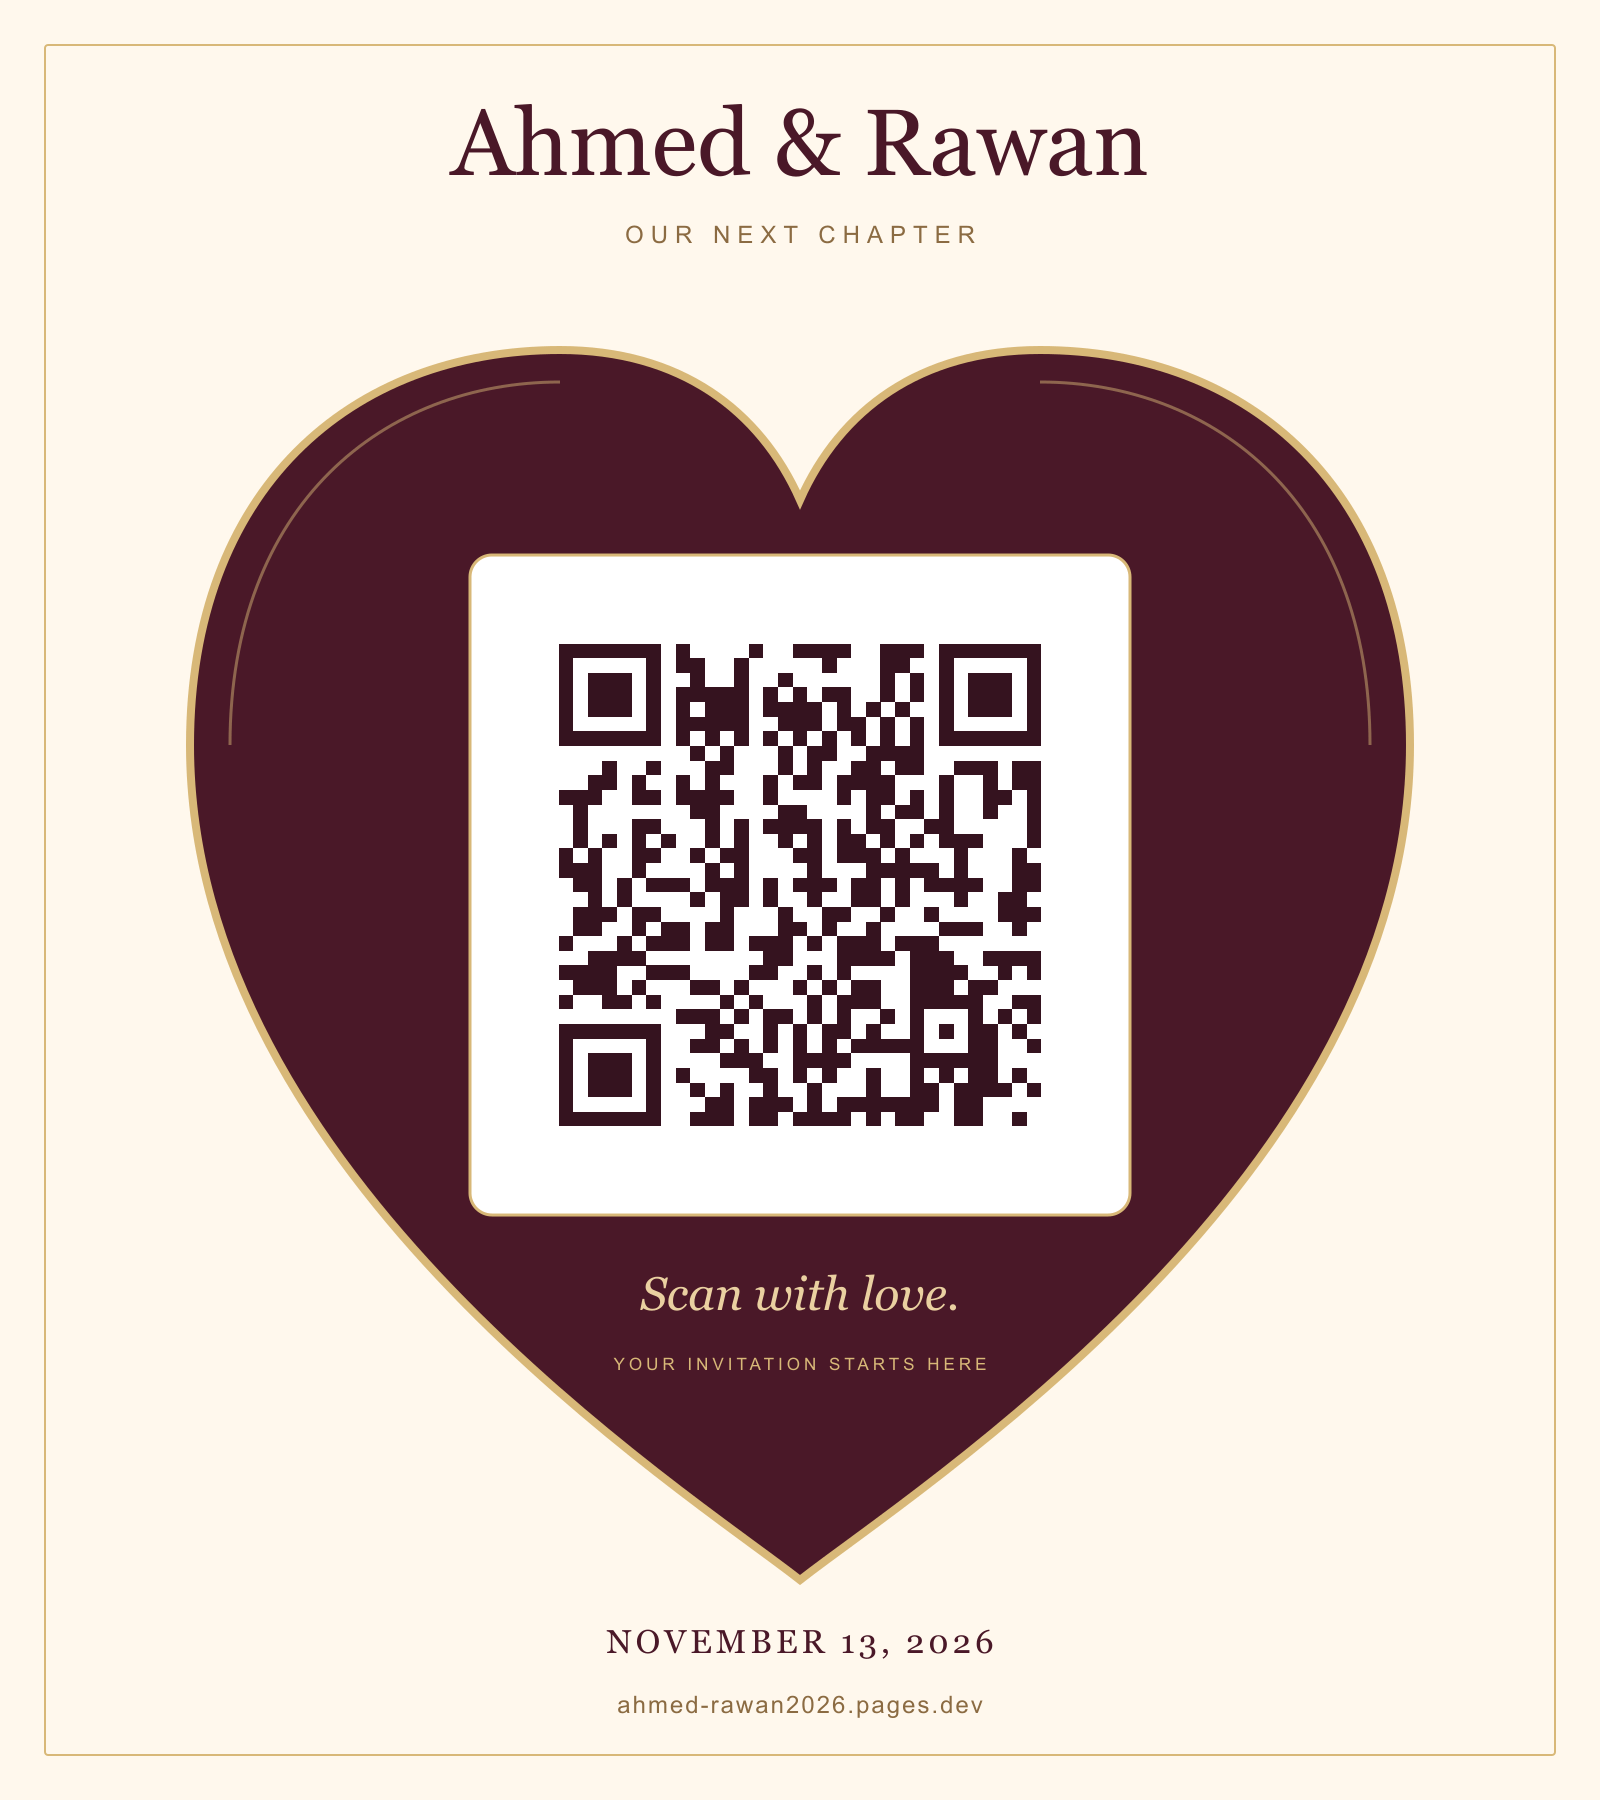
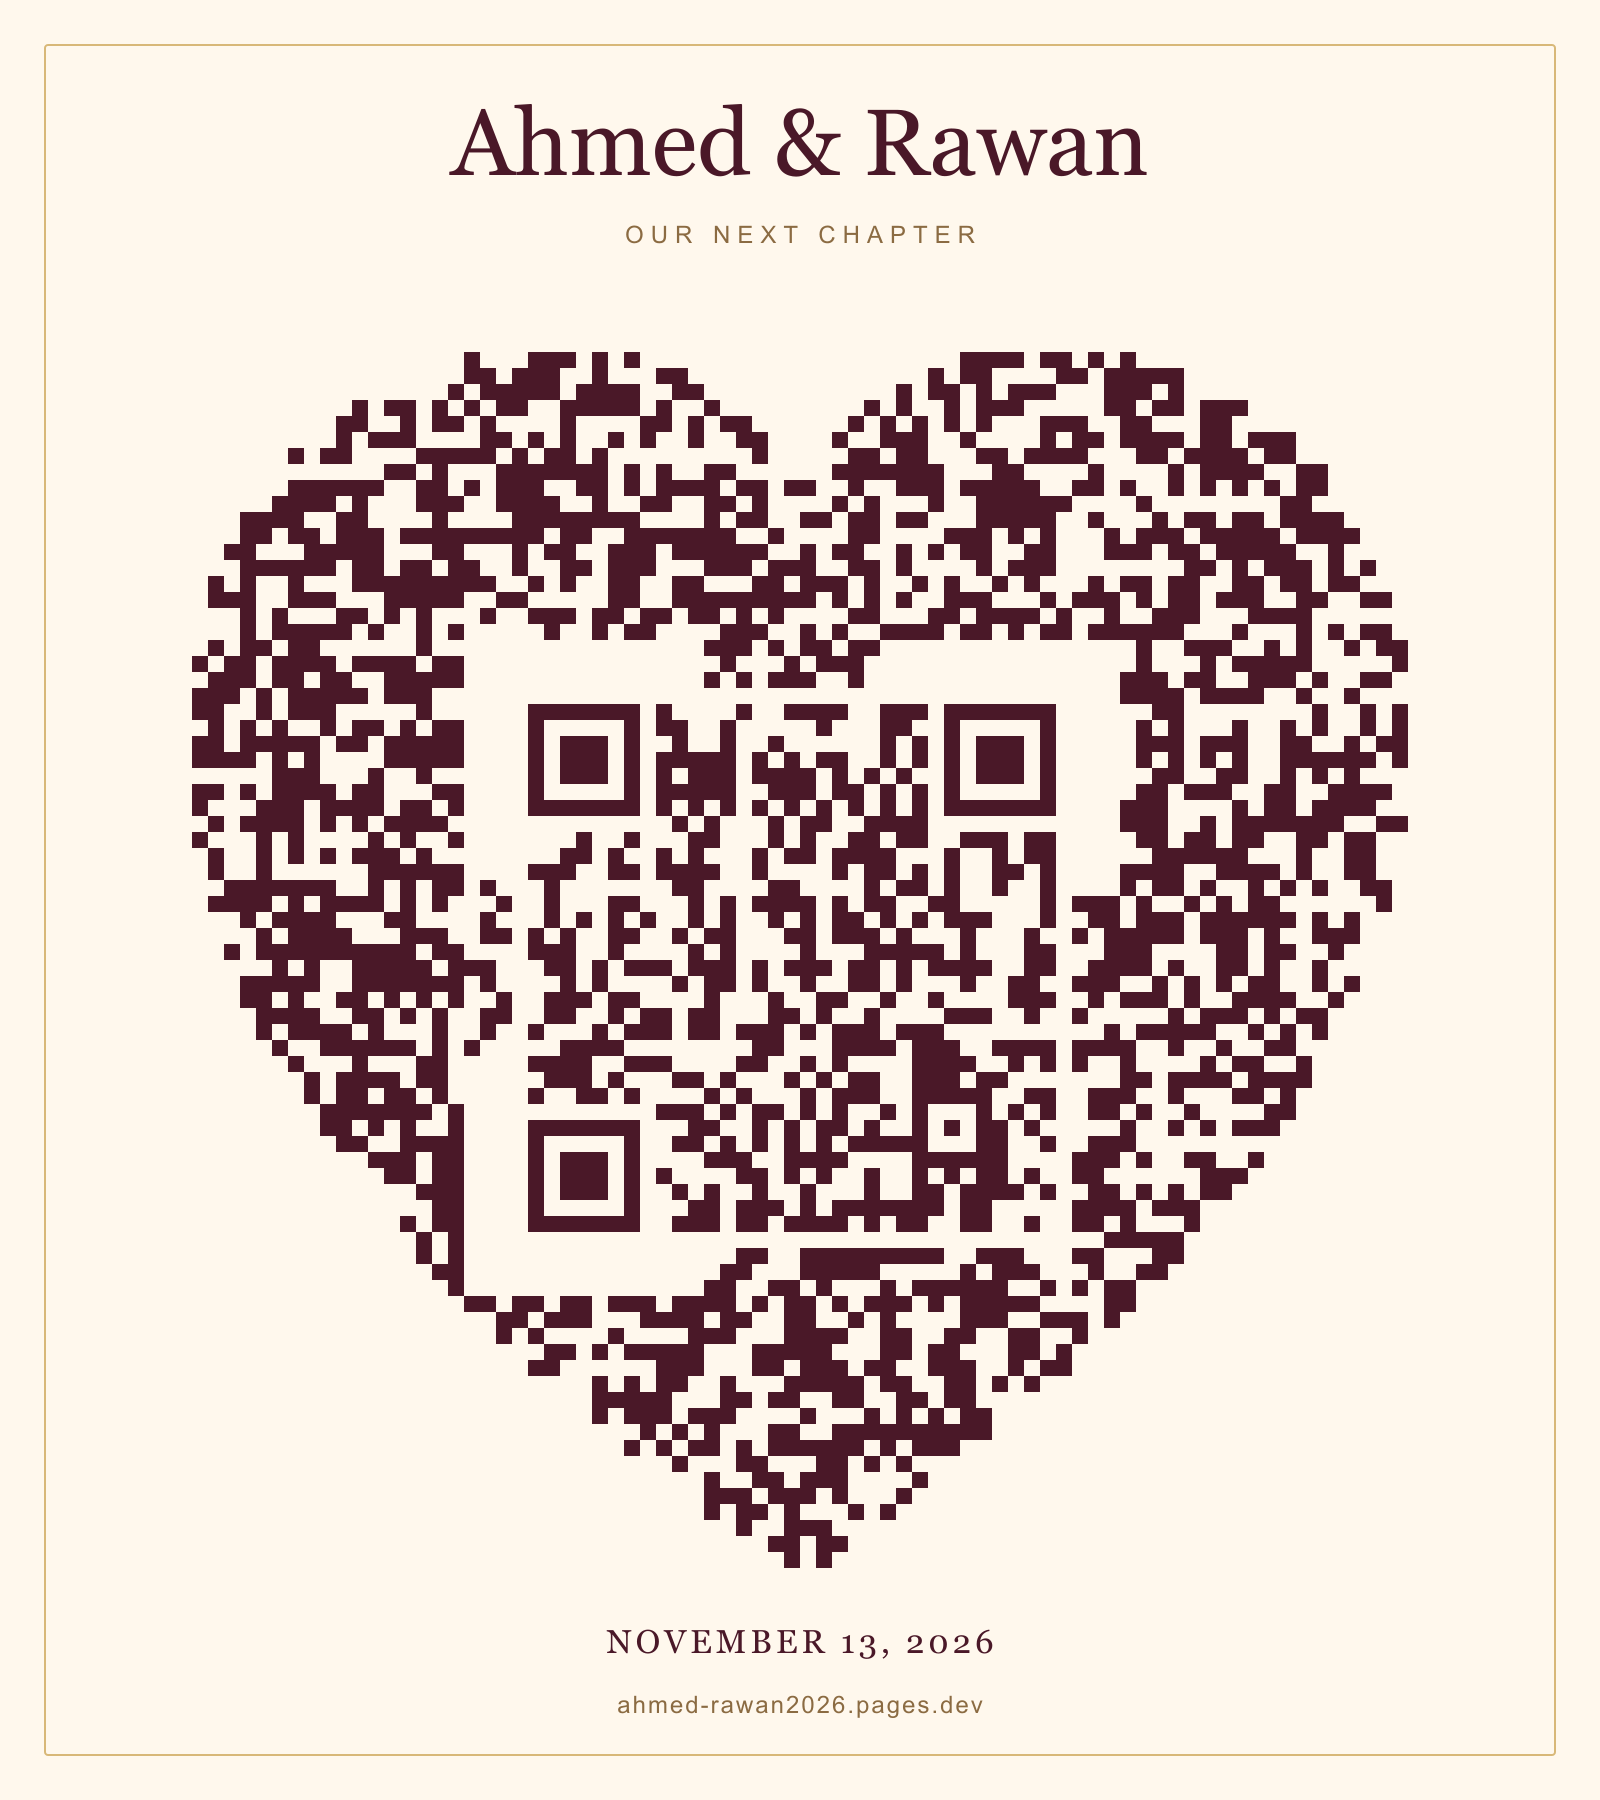
Form the burgundy heart from scannable QR modules

Changed region(s): [[0.0938, 0.1867, 0.9062, 0.8711]]

diff --git a/docs/QA.md b/docs/QA.md
@@ -29,3 +29,7 @@ The new sharing domain is `ahmed-rawan2026.pages.dev`. The heart QR export is de
 Mobile speech refinement: 3D speech panels are measured with ResizeObserver and clamped inside the canvas with 16px side margins. The tail follows the projected speaker without pushing text outside the screen. The lightweight fallback places bubbles within the complete cast width, rather than centering overflowing bubbles on edge characters. Geometry tests cover 320, 360, 390, 600 and 1440px widths and tall dialogue on a short viewport.
 
 Current browser review: Chrome's mobile emulation opened the invitation automatically. An upward scroll and Escape left it open, and clicking × returned to the envelope. Subsequent visual screenshots were unreliable and native UI controls reported offscreen elements, so a final visual certification of the corrected bubble and physical-device touch scrolling remains unavailable. The automated checks cover these interaction rules and safe bubble geometry.
+
+The heart QR now uses burgundy QR-style modules to form the complete heart silhouette on ivory. Its central data matrix remains intact; surrounding modules are decorative. The finished PNG is decoded at 1600, 1000, 700 and 480px widths, plus a 700px JPEG at quality 75 rotated 7 degrees. Every check must return the canonical invitation URL before the export is written.
+
+Apple Vision independently decoded the final full-size PNG to `https://ahmed-rawan2026.pages.dev/`. This is a local image-decoder check, not a physical phone camera test.

diff --git a/README.md b/README.md
@@ -78,4 +78,4 @@ Only deploy to this project. Do not overwrite another Pages project, add a domai
 
 ## Heart QR image
 
-The shareable heart design is `public/heart-qr.png` (1600 × 1800). Run `npm run qr` to regenerate it, or let the standard build do so. The build decodes the finished image and checks that its content is the configured canonical invitation URL. The full QR and its quiet zone are preserved inside the heart so the decorative shape does not damage scannability.
+The shareable heart design is `public/heart-qr.png` (1600 × 1800). Run `npm run qr` to regenerate it, or let the standard build do so. The build decodes the finished image and checks that its content is the configured canonical invitation URL. Burgundy modules form the heart itself. The complete QR data matrix sits within that pattern, with clearance around the detection markers. The finished image is decoded at widths of 1600, 1000, 700 and 480 pixels and after JPEG compression and slight rotation.
